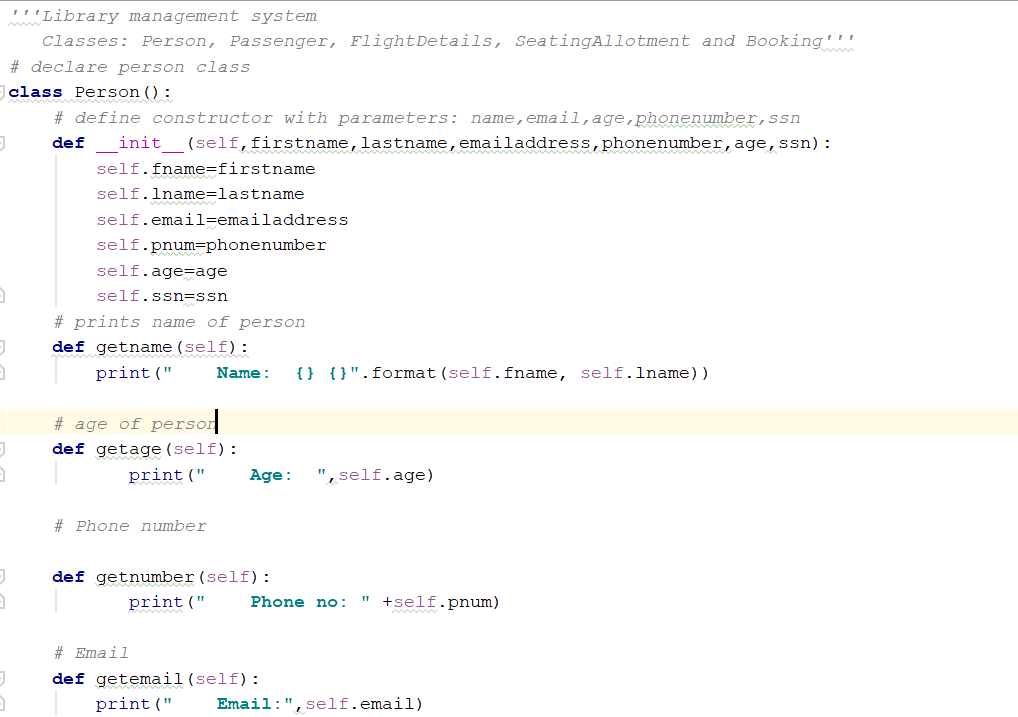
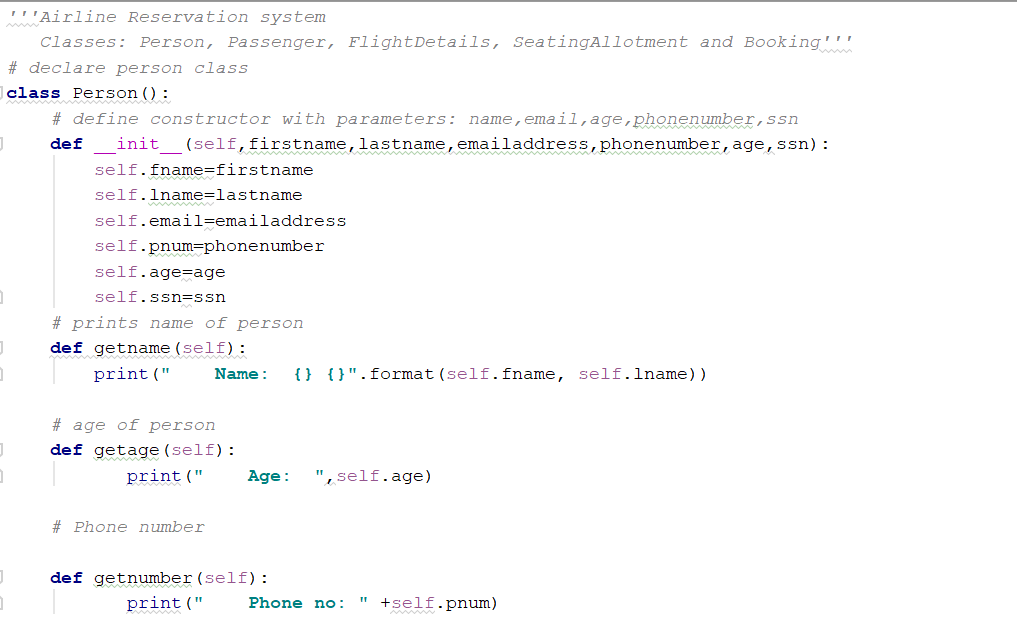
LAB1

diff --git a/LAB1/Source/5.py b/LAB1/Source/5.py
@@ -1,4 +1,4 @@
-'''Library management system
+'''Airline Reservation system
    Classes: Person, Passenger, FlightDetails, SeatingAllotment and Booking'''
 # declare person class
 class Person():
